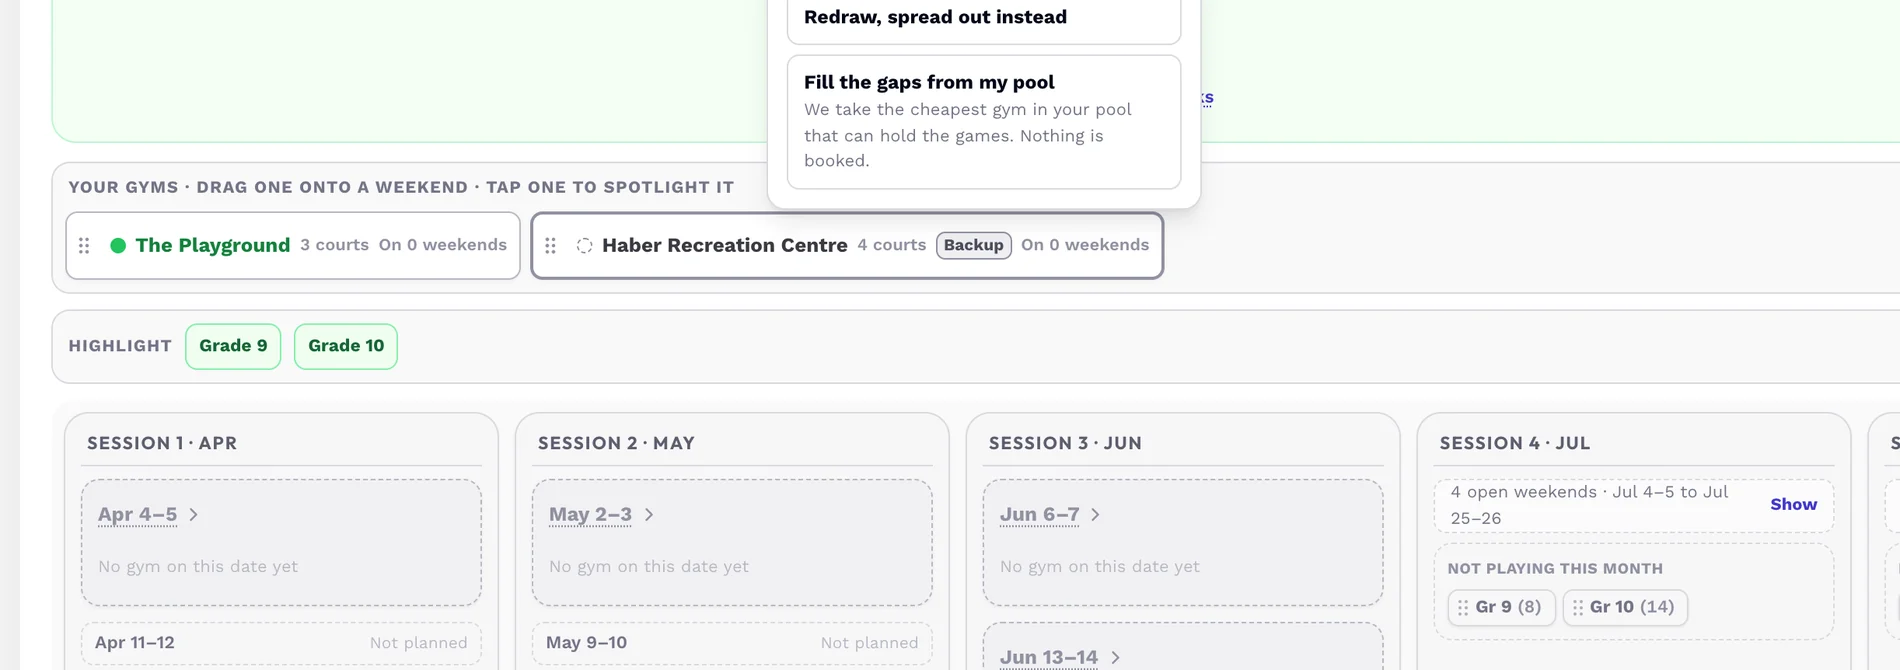
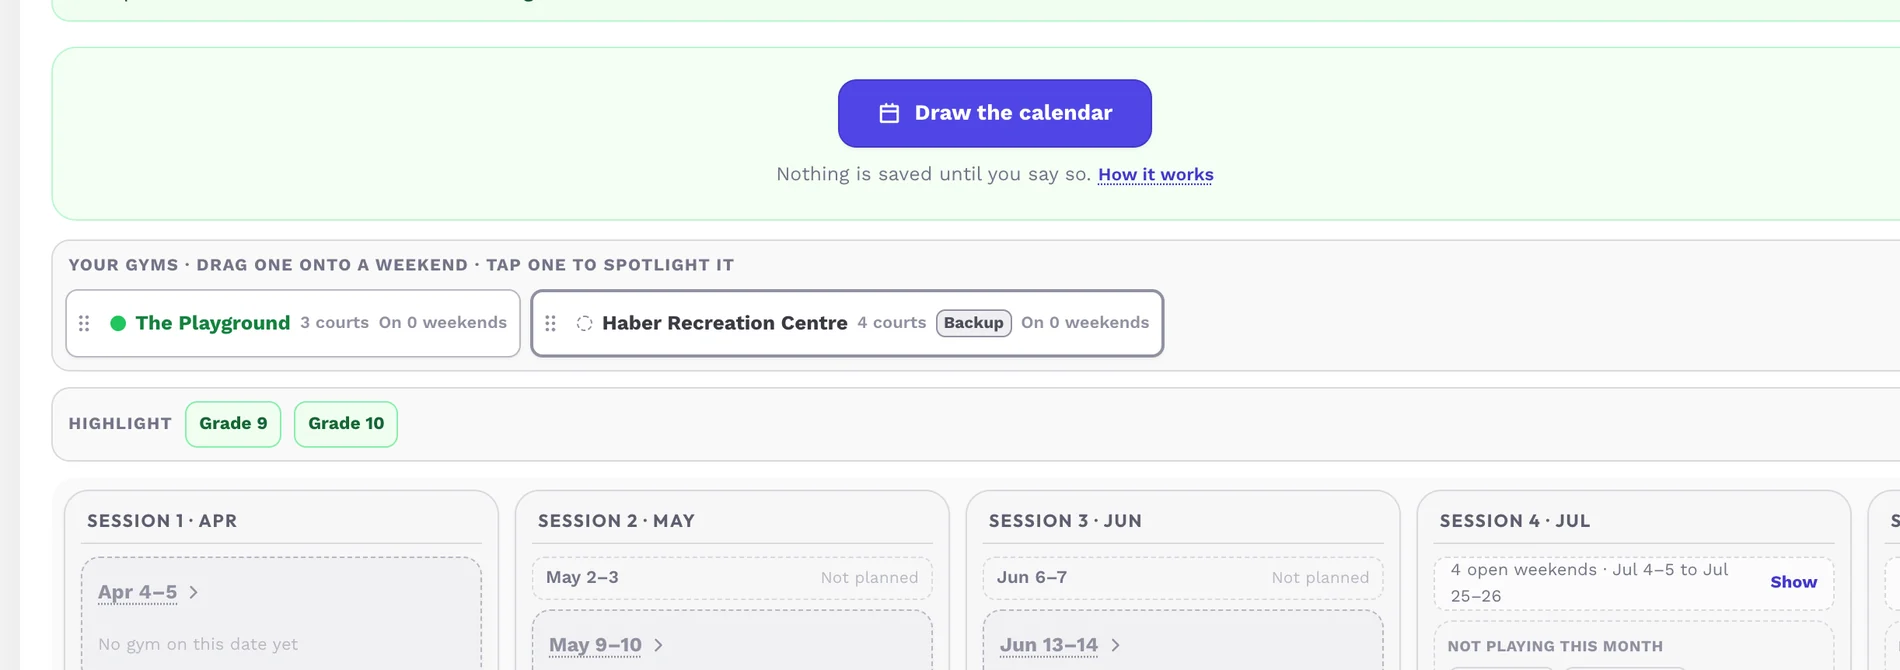
slide 4's three frames actually show something
Shipped it empty. All three planner frames captured the page header and the
step rail and then ran out of band before any content: the grade rows, the gym
settings and the board were all below the fold. The chrome is identical on
every step, so it read as three copies of nothing, which is exactly what the
owner saw.

Two causes, both fixed:

- The band always starts at the top of <main>. It now scrolls each frame so its
  subject is at the top: the grade table, the gym hours, the board.
- The plan was not being created at all on a fresh seeded season. The dialog's
  confirm was matched with /create|save|start/, which hit a different control,
  so the dialog stayed open and every later frame read "No plan open". Matched
  exactly now.

And a guard, because shipping an empty planner is the failure this seeder
exists to prevent: the capture throws if the planner still says "No plan open"
rather than photographing it.

Frames now: grade counts with "8 registered / 8 last season / 52 games", the
home gym with its courts and hours, and the calendar board with sessions by
month and draggable grade chips.

Verified: both decks nineteen slides, no broken images, zero console errors,
all three frames observed cycling on slide 4.

diff --git a/apps/web/src/app/deck/_deck/shots-version.ts b/apps/web/src/app/deck/_deck/shots-version.ts
@@ -7,4 +7,4 @@
  *
  * Do not edit by hand.
  */
-export const SHOTS_VERSION = "20260820-2047"
+export const SHOTS_VERSION = "20260820-2116"
